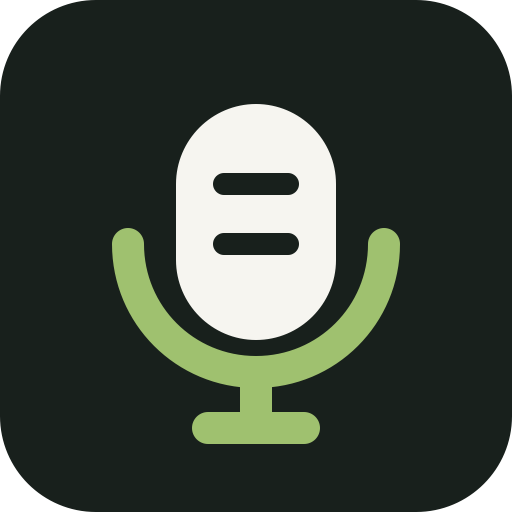
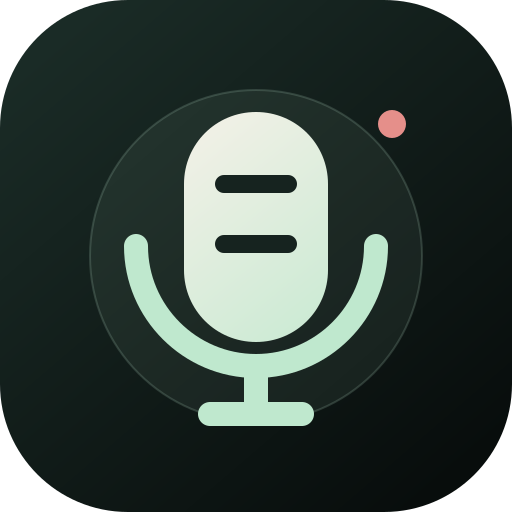
feat(ui): refine glass controls and studio branding

diff --git a/src/app/styles.css b/src/app/styles.css
@@ -4465,3 +4465,211 @@ body,
     display: none;
   }
 }
+
+/* Glass system: a restrained PS5 / Apple-inspired layer for every interactive
+   surface. Keep labels on one line so controls scan as objects, while long
+   explanatory copy remains naturally readable inside the cards. */
+:root {
+  --glass-fill: color-mix(in srgb, var(--bg-elevated) 58%, transparent);
+  --glass-fill-hover: color-mix(in srgb, var(--panel-strong) 76%, transparent);
+  --glass-stroke: color-mix(in srgb, var(--text) 15%, transparent);
+  --glass-stroke-hover: color-mix(in srgb, var(--accent-a) 46%, var(--line));
+  --glass-radius: 20px;
+  --glass-blur: 24px;
+}
+
+.home-workbench,
+.director-panel,
+.focus-card,
+.technical-page,
+.home-workbench > section,
+.home-workbench > details,
+.next-step-panel,
+.export-panel,
+.dataset-export-panel,
+.system-health,
+.local-corpus-panel,
+.backing-track-panel,
+.prompt-direction,
+.prep-checklist,
+.coverage-console,
+.workspace-backup,
+.forced-alignment-panel,
+.studio-ready-panel,
+.microphone-panel,
+.listening-review,
+.progressive-review,
+.domain-panel,
+.responsibility-list article {
+  border-radius: var(--glass-radius);
+}
+
+.home-workbench > section,
+.home-workbench > details,
+.next-step-panel,
+.export-panel,
+.dataset-export-panel,
+.system-health,
+.local-corpus-panel,
+.backing-track-panel,
+.prompt-direction,
+.prep-checklist,
+.coverage-console,
+.workspace-backup,
+.forced-alignment-panel,
+.studio-ready-panel,
+.microphone-panel,
+.listening-review,
+.progressive-review,
+.domain-panel,
+.responsibility-list article {
+  background: var(--glass-fill);
+  border: 1px solid var(--glass-stroke);
+  box-shadow: 0 18px 54px rgba(0, 0, 0, 0.14);
+  backdrop-filter: blur(var(--glass-blur)) saturate(1.12);
+}
+
+.home-workbench > section,
+.home-workbench > details {
+  padding: 16px;
+}
+
+.folder-button,
+.launch-button,
+.download-action,
+.stop-button,
+.quiet-button,
+.system-refresh,
+.ritual-button,
+.capture-mode-option,
+.site-footer-links a {
+  white-space: nowrap;
+}
+
+.folder-button,
+.quiet-button,
+.system-refresh,
+.stop-button,
+.ritual-button {
+  background: color-mix(in srgb, var(--glass-fill) 78%, transparent);
+  border: 1px solid var(--glass-stroke);
+  box-shadow: 0 8px 24px rgba(0, 0, 0, 0.12);
+}
+
+.folder-button:hover,
+.quiet-button:hover,
+.system-refresh:hover,
+.stop-button:hover,
+.ritual-button:hover,
+.capture-mode-option:hover {
+  background: var(--glass-fill-hover);
+  border-color: var(--glass-stroke-hover);
+  box-shadow: 0 12px 32px color-mix(in srgb, var(--accent-a) 12%, transparent);
+}
+
+.launch-button,
+.download-action {
+  border-radius: 16px;
+  box-shadow: 0 14px 34px color-mix(in srgb, var(--accent-a) 16%, transparent);
+}
+
+.launch-button.is-hero {
+  border-radius: 22px;
+  min-width: min(100%, 310px);
+}
+
+.folder-button svg,
+.launch-button svg,
+.download-action svg,
+.stop-button svg,
+.quiet-button svg,
+.ritual-button svg,
+.system-refresh svg,
+.capture-mode-option svg {
+  flex: 0 0 auto;
+}
+
+.status-strip div,
+.recording-dot,
+.recording-cue,
+.recording-meter,
+.surface-profile-badge {
+  border-radius: 14px;
+}
+
+.status-strip div {
+  background: color-mix(in srgb, var(--glass-fill) 78%, transparent);
+  border-color: var(--glass-stroke);
+}
+
+.simple-form select,
+.voice-name-field input,
+.capture-profile input,
+.local-corpus-panel textarea {
+  border-radius: 14px;
+  border-color: var(--glass-stroke);
+}
+
+.local-corpus-panel textarea:focus,
+.simple-form select:focus,
+.voice-name-field input:focus,
+.capture-profile input:focus {
+  background: color-mix(in srgb, var(--glass-fill-hover) 86%, transparent);
+  border-color: var(--glass-stroke-hover);
+}
+
+.home-workbench .primary-actions {
+  gap: 10px;
+}
+
+.home-workbench .primary-actions .folder-button {
+  border-radius: 16px;
+}
+
+.capture-mode-option.is-active {
+  box-shadow: 0 8px 22px color-mix(in srgb, var(--accent-a) 16%, transparent);
+}
+
+@media (max-width: 720px) {
+  .home-workbench > section,
+  .home-workbench > details,
+  .next-step-panel,
+  .export-panel,
+  .dataset-export-panel,
+  .system-health,
+  .local-corpus-panel,
+  .backing-track-panel,
+  .prompt-direction,
+  .coverage-console,
+  .workspace-backup {
+    border-radius: 16px;
+    padding: 14px;
+  }
+
+  .home-workbench .primary-actions .folder-button,
+  .home-workbench .primary-actions .launch-button,
+  .stacked-actions .folder-button,
+  .stacked-actions .launch-button,
+  .stacked-actions .quiet-button {
+    min-height: 48px;
+  }
+
+  .launch-button.is-hero {
+    max-width: 100%;
+    min-width: 0;
+    padding-inline: 20px;
+  }
+}
+
+@media (prefers-reduced-motion: reduce) {
+  .folder-button,
+  .launch-button,
+  .download-action,
+  .stop-button,
+  .quiet-button,
+  .system-refresh,
+  .ritual-button,
+  .capture-mode-option {
+    transition: none;
+  }
+}

diff --git a/index.html b/index.html
@@ -17,8 +17,19 @@
     <meta name="format-detection" content="telephone=no" />
     <meta
       name="description"
-      content="Studio local de capture vocale dirigee compatible Forge."
+      content="Studio local de capture vocale précise, guidée et prête pour les datasets."
     />
+    <meta property="og:type" content="website" />
+    <meta property="og:title" content="Voice Capture Studio" />
+    <meta
+      property="og:description"
+      content="Capture vocale locale, guidée et dataset-ready."
+    />
+    <meta property="og:image" content="%BASE_URL%social-preview.png" />
+    <meta property="og:image:alt" content="Voice Capture Studio" />
+    <meta name="twitter:card" content="summary_large_image" />
+    <meta name="twitter:title" content="Voice Capture Studio" />
+    <meta name="twitter:image" content="%BASE_URL%social-preview.png" />
     <link rel="manifest" href="%BASE_URL%manifest.webmanifest" />
     <link rel="icon" href="%BASE_URL%icon.svg" type="image/svg+xml" />
     <link rel="apple-touch-icon" href="%BASE_URL%apple-touch-icon.png" />